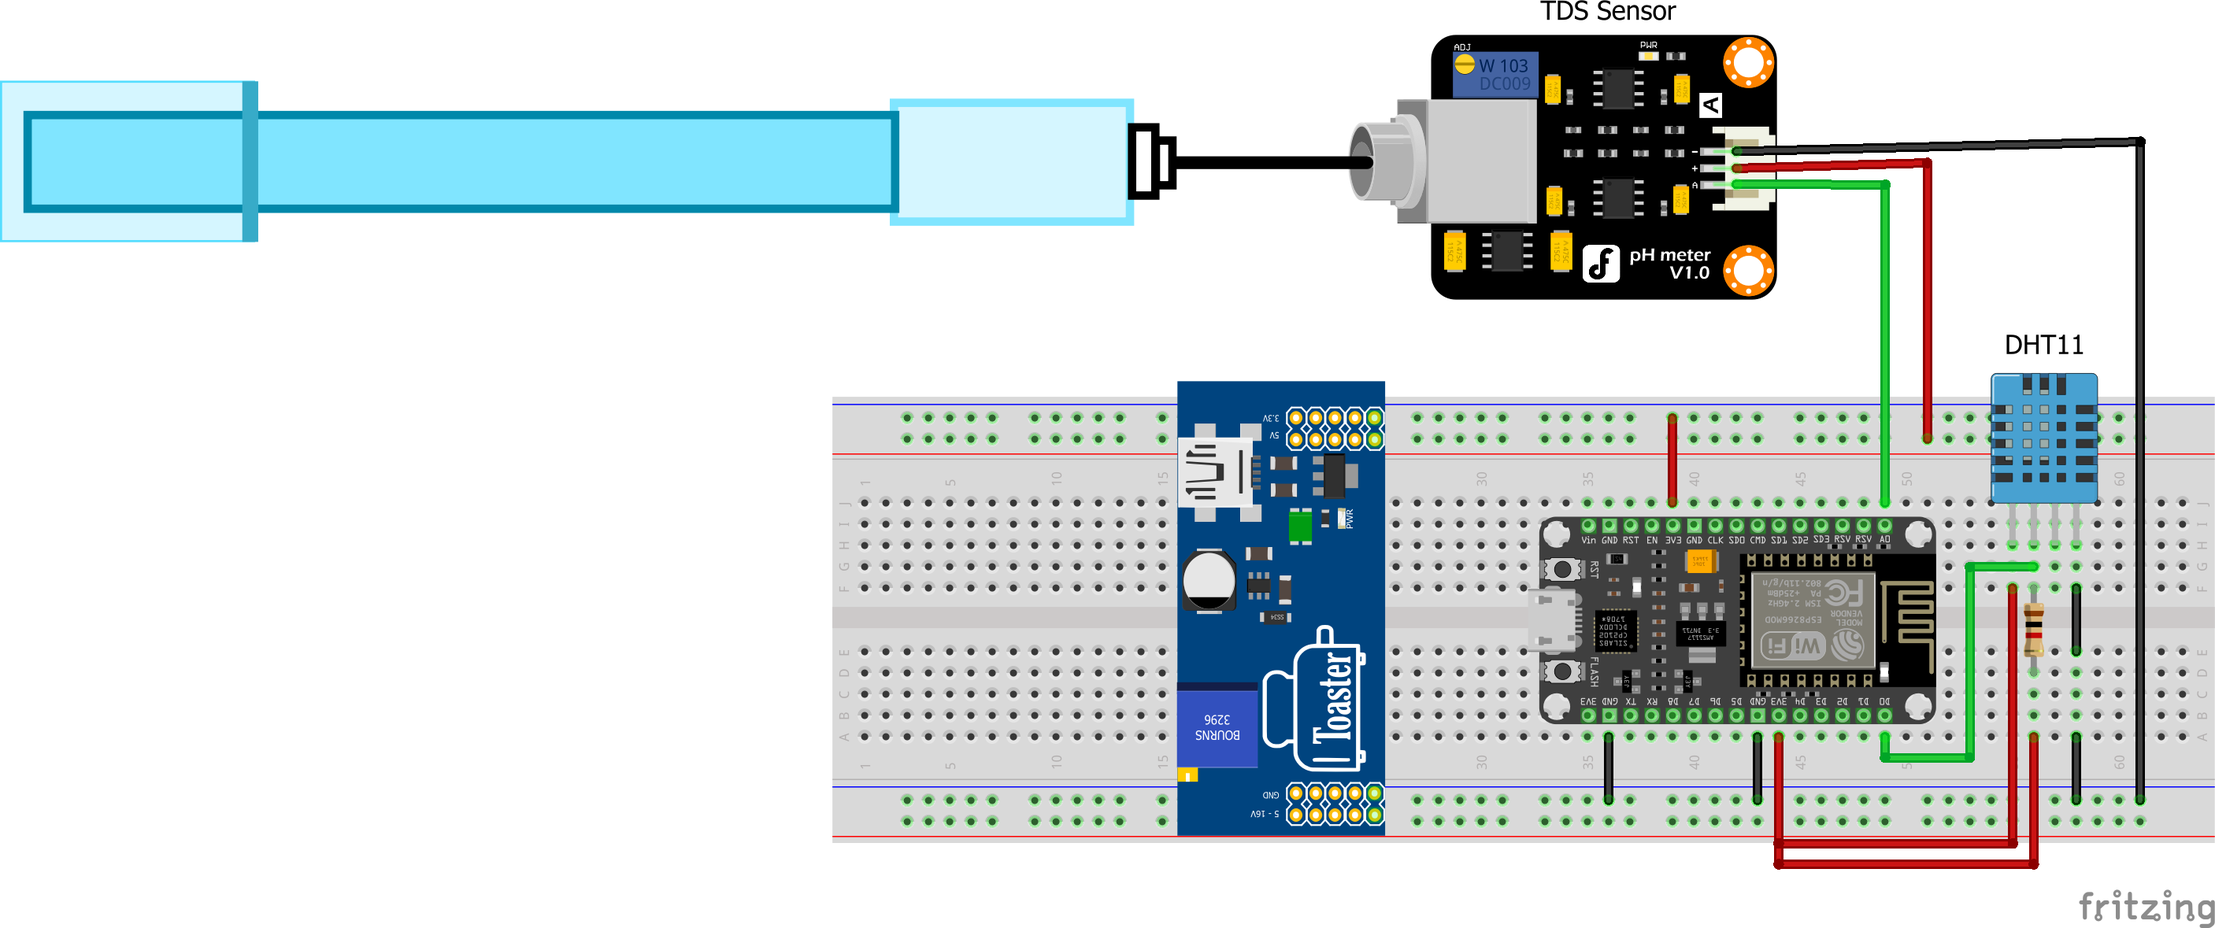
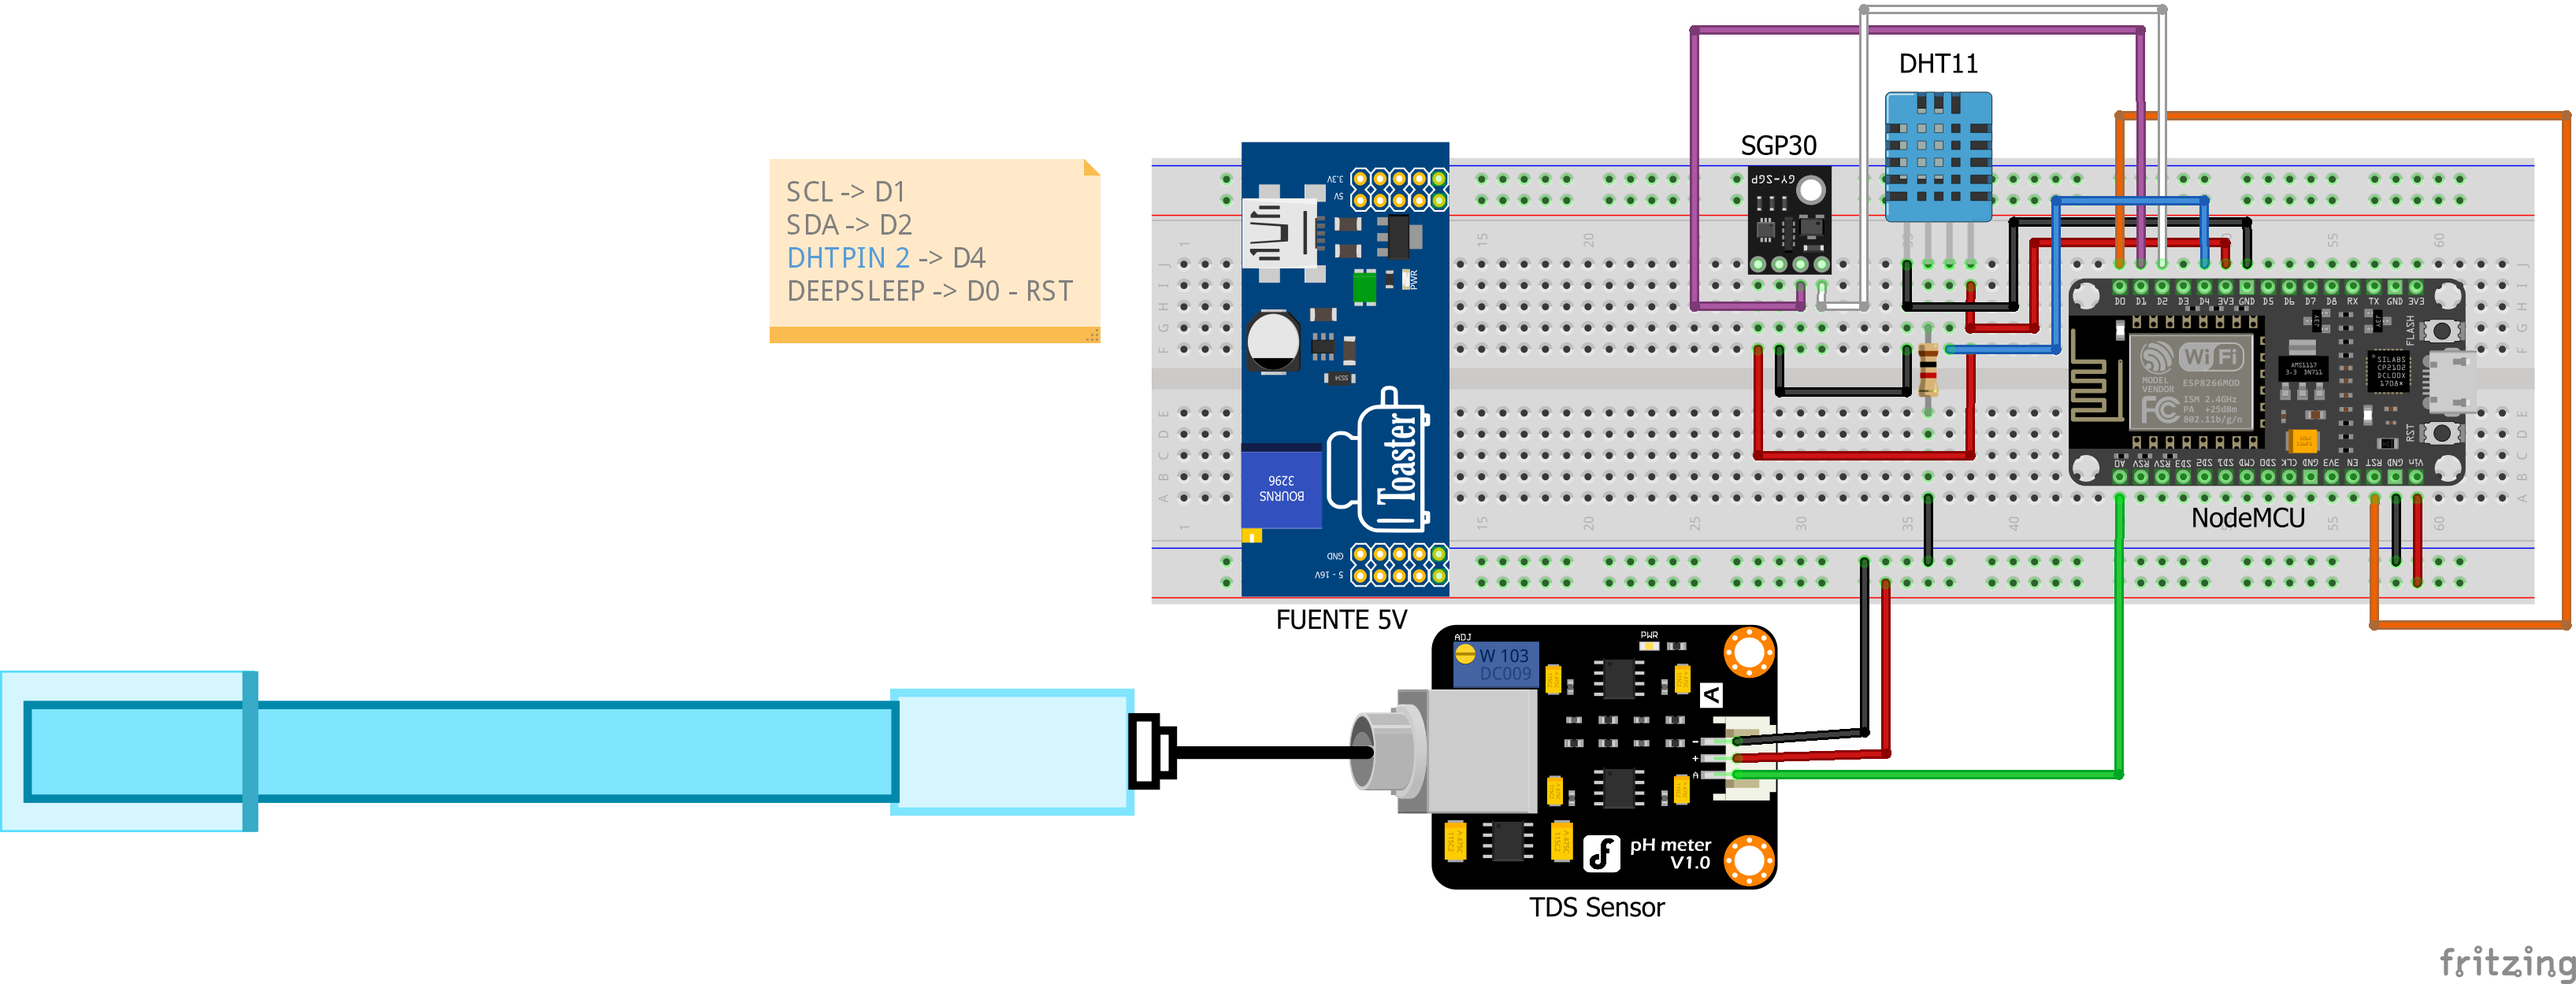
ajuste a esquema y readme del proyecto

diff --git a/README.md b/README.md
@@ -1,24 +1,31 @@
-# Proyecto de Monitoreo de Calidad del Agua con NodeMCU ESP8266
+# Proyecto de Monitoreo de Calidad del Agua y del Aire con NodeMCU ESP8266
 
 ## Descripción
-Este proyecto consiste en un sistema de monitoreo básico de calidad del agua utilizando una placa NodeMCU ESP8266. El sistema emplea sensores para medir:
+
+Este proyecto consiste en un sistema de monitoreo básico de **calidad del agua** y **calidad del aire** utilizando una placa **NodeMCU ESP8266**. Se integran sensores para medir:
 
 - **TDS (Total de Sólidos Disueltos)** en el agua.
-- **Temperatura y humedad ambiental** mediante un sensor **DHT11**.
+- **Compuestos orgánicos volátiles (TVOC)** y **dióxido de carbono equivalente (eCO2)** mediante el sensor **SGP30**.
+- **Temperatura y humedad relativa** mediante un sensor **DHT11** usado para realizar compensación de la medición de TDS y por calculo realizar compensación de TVOC y eCO2 con humedad absoluta.
 
-Los datos recopilados se envían a la plataforma en la nube **[Blynk](https://blynk.io/)** para su visualización en tiempo real desde dispositivos móviles o paneles web.
+Los datos se envían a la plataforma en la nube **[Blynk](https://blynk.io/)** para su visualización en tiempo real desde dispositivos móviles o paneles web.
 
 ---
 
-## Componentes Utilizados
+## Componentes del Sistema
 
-| Componente          | Descripción                               |
-|---------------------|-------------------------------------------|
-| NodeMCU ESP8266     | Microcontrolador con WiFi integrado       |
-| Sensor TDS (DFRobot)| Medidor de sólidos disueltos en agua      |
-| Sensor DHT11        | Sensor de temperatura y humedad           |
-| Resistencia 10kΩ    | Pull-up para el pin de datos del DHT11    |
-| Protoboard y cables | Para conexiones físicas                   |
+| Componente               | Descripción                                                                 |
+|--------------------------|-----------------------------------------------------------------------------|
+| **NodeMCU ESP8266**      | Microcontrolador con conectividad WiFi integrada, ideal para IoT            |
+| **Sensor TDS (DFRobot)** | Sensor para medir sólidos disueltos totales (TDS) en agua                   |
+| **Sensor DHT11**         | Sensor digital de temperatura y humedad relativa                            |
+| **Sensor SGP30**         | Sensor de gas para medir eCO₂ (CO₂ equivalente) y TVOC                      |
+| **Resistencia 10kΩ**     | Resistencia pull-up para el pin de datos del sensor DHT11                   |
+| **Protoboard**           | Tablero de pruebas sin soldadura para prototipado rápido                    |
+| **Cables Dupont**        | Cables macho-macho / macho-hembra para realizar conexiones entre componentes |
+| **Adaptador de voltaje** | Módulo step-up o cargador que regula la salida a 5V                         |
+| **Batería recargable**   | Fuente de energía portátil para alimentar el sistema en campo               |
+
 
 ---
 
@@ -36,29 +43,68 @@ Asegúrate de instalar las siguientes librerías en el IDE de Arduino:
 
 - `GravityTDS-master`
 - `DHT11`
+- `Adafruit_SGP30`  
+- `Adafruit_Sensor`
+- `Wire` (generalmente incluida por defecto)
+
 ---
 
 ## Funcionamiento
 
-1. El sensor TDS mide la cantidad de sólidos disueltos en el agua y envía una señal analógica.
-2. El sensor DHT11 mide temperatura y humedad ambiental.
-3. El NodeMCU ESP8266 recoge los datos y los envía a la aplicación móvil mediante Blynk.
-4. En la app Blynk puedes visualizar en tiempo real las condiciones del agua y el entorno.
+Al encenderse, el sistema establece una conexión WiFi utilizando las credenciales proporcionadas. En caso de fallar la conexión tras varios intentos, el dispositivo entra en modo de bajo consumo (*deepSleep*) durante 2 minutos antes de intentar reconectarse automáticamente.
+
+Una vez conectado, el dispositivo inicia la lectura de datos ambientales a través de los sensores conectados:
+
+1. **Sensor DHT11 (Temperatura y Humedad):**
+   - Se toma una lectura de temperatura y humedad.
+   - A partir de estos datos, se calcula la humedad absoluta para compensar adecuadamente las lecturas del sensor de calidad del aire SGP30.
+
+2. **Sensor SGP30 (Calidad del Aire):**
+   - El sensor se inicializa y se verifica que esté en condiciones adecuadas para realizar mediciones.
+   - Se toman varias muestras del nivel de CO₂ equivalente (eCO₂) y compuestos orgánicos volátiles totales (TVOC), promediando los valores válidos.
+   - La calidad del aire se clasifica según los niveles de eCO₂ registrados:
+     - **Excelente:** eCO₂ < 600 ppm
+     - **Bueno:** 600 - 799 ppm
+     - **Regular:** 800 - 999 ppm
+     - **Pobre:** 1000 - 1499 ppm
+     - **Inaceptable:** ≥ 1500 ppm
+
+3. **Sensor TDS (Sólidos Disueltos Totales en Agua):**
+   - Se realizan múltiples lecturas analógicas para obtener un promedio confiable.
+   - Se calcula la conductividad eléctrica (EC) y se aplica una compensación por temperatura.
+   - A partir del EC, se obtiene el valor de TDS en ppm.
+   - La calidad del agua se clasifica según el nivel de TDS:
+     - **Excelente:** < 300 ppm
+     - **Buena:** 300 - 599 ppm
+     - **Regular:** 600 - 899 ppm
+     - **Pobre:** 900 - 1199 ppm
+     - **Inaceptable:** ≥ 1200 ppm
+
+4. **Envío de Datos a la Plataforma Blynk:**
+   - Todos los datos obtenidos (temperatura, humedad, TDS, EC, TVOC, eCO₂ y humedad absoluta) se envían a la aplicación móvil Blynk mediante pines virtuales.
+   - También se utiliza un terminal virtual para visualizar los mensajes de estado y clasificación de calidad directamente desde la app.
+
+Finalmente, tras completar el ciclo de mediciones y envío de datos, el dispositivo entra nuevamente en modo *deepSleep* durante 2 minutos para conservar energía, repitiendo el ciclo automáticamente.
+
+Este diseño lo convierte en un sistema eficiente para el monitoreo ambiental, ideal para implementaciones autónomas en zonas donde se requiere vigilancia constante con bajo consumo energético.
+
 
 ---
 
 ## Plataforma en la Nube: Blynk
 
-Usamos **[Blynk](https://blynk.io/)** como plataforma IoT para visualizar los datos de los sensores en tiempo real. Blynk permite crear interfaces móviles atractivas con botones, gráficas y widgets que interactúan directamente con tu hardware.
+Utilizamos **[Blynk](https://blynk.io/)** como plataforma IoT para visualizar los datos de los sensores en tiempo real. Blynk permite crear interfaces móviles interactivas con botones, gráficas y widgets que se comunican con el hardware de forma remota.
 
 ---
 
 ## Posibles mejoras futuras
 
-- Cambiar el sensor DHT11 por un DHT22 para mayor precisión.
-- Añadir más sensores (pH, turbidez, etc.).
+- Cambiar el sensor DHT11 por un **DHT22** para mayor precisión.
+- Añadir sensores adicionales: **pH**, **turbidez**, **temperatura del agua**.
+- Enviar los datos también a una base de datos o Google Sheets.
+- Agregar una pantalla OLED local para mostrar valores en sitio.
 - Implementar alertas automáticas por condiciones críticas.
-- Usar un panel solar y batería recargable para operación autónoma.
+- Usar un **panel solar** junto con la **batería recargable** para operación autónoma.
 
 ---
 
